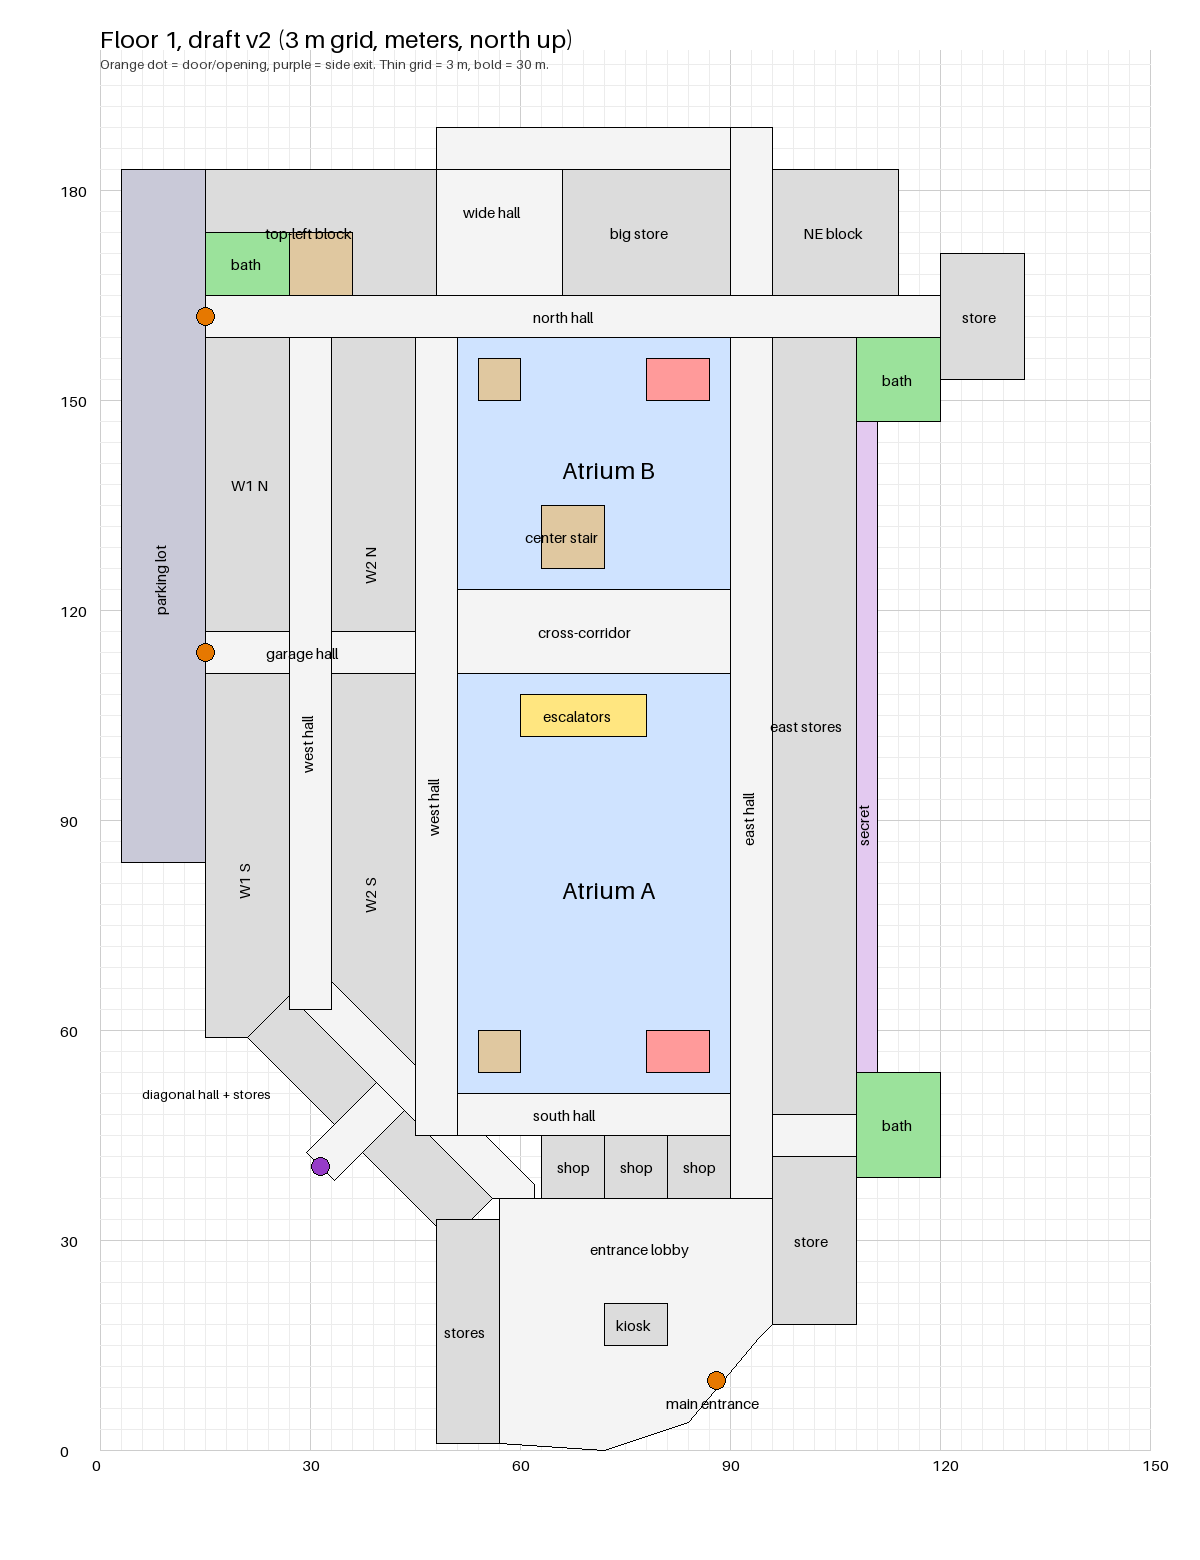
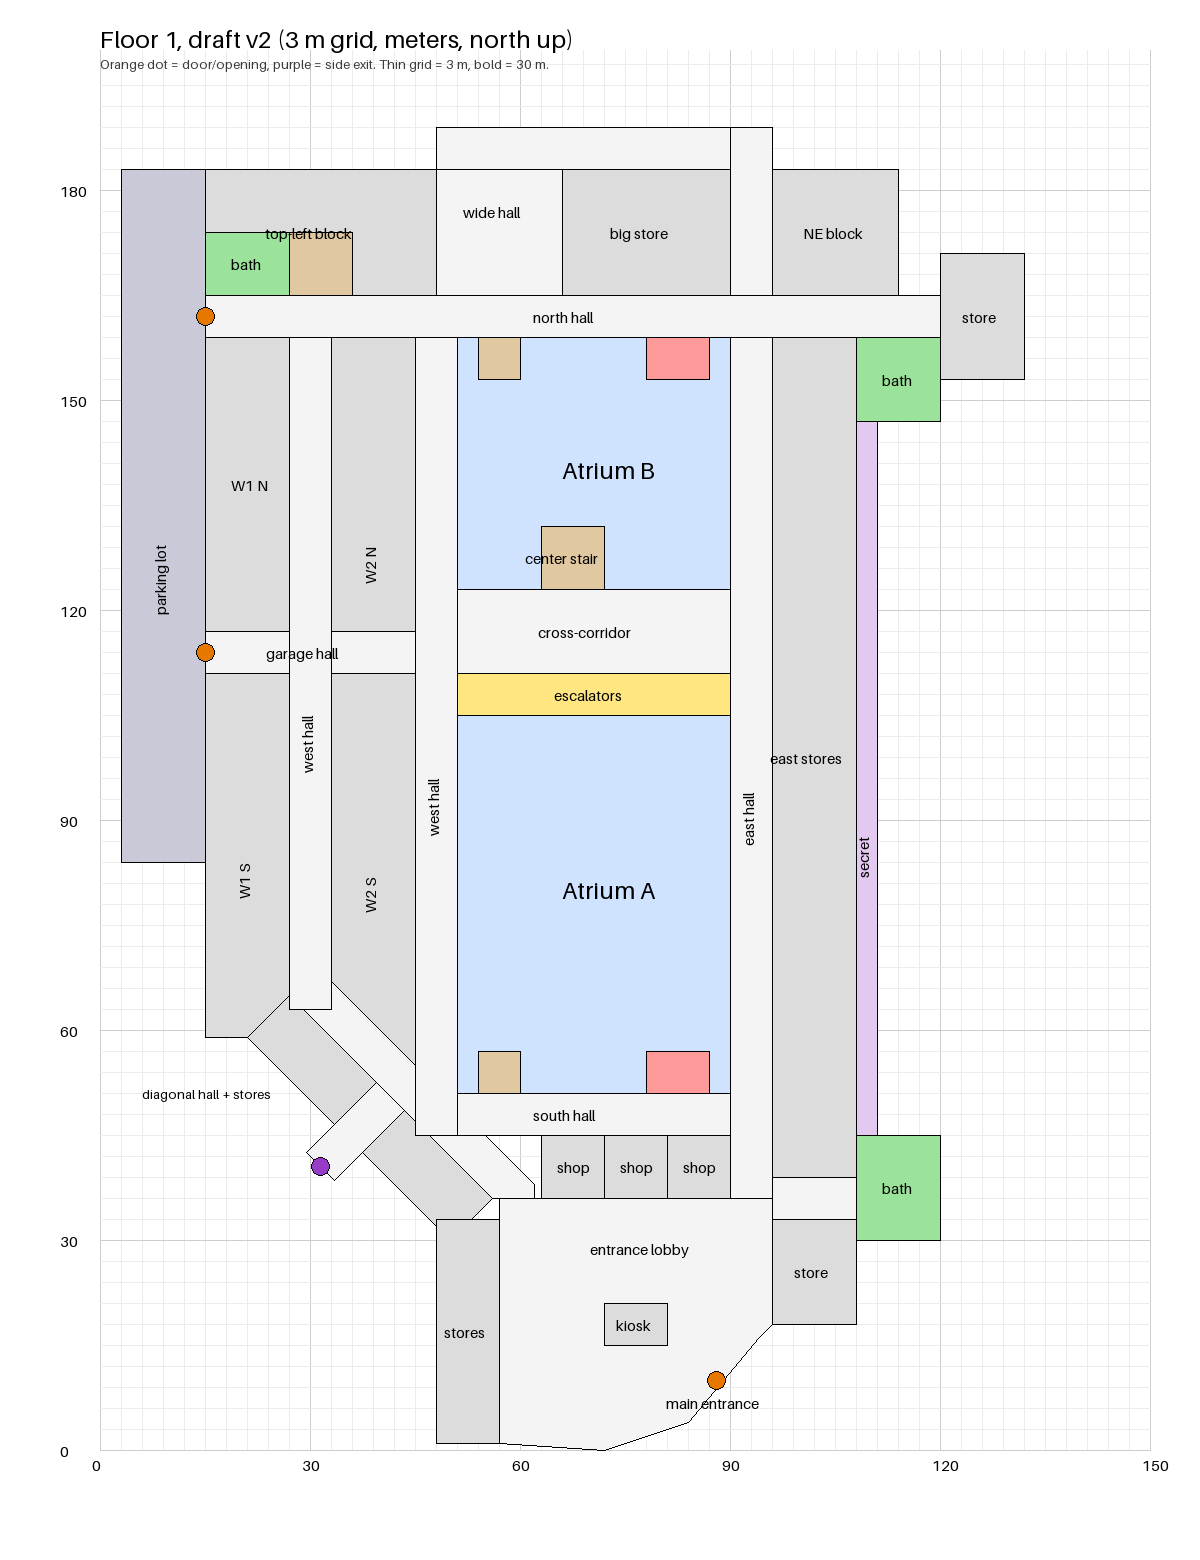
floor 1 plan updates

diff --git a/docs/floorplans/floor1_notes.md b/docs/floorplans/floor1_notes.md
@@ -103,6 +103,10 @@ Files: `floor1_plan_v2.png` and `floor1_plan_v2.json` (v1 is kept for comparison
 
 **Lobby stores (v2):** they are not separate boxes. On the east side the east store block continues south along the lobby (down to y 18). On the west side the diagonal store block turns and runs all the way south along the lobby's west wall. The walk-in kiosk is an island in the middle of the lobby.
 
+**SE short hall and bathrooms moved south (v2):** moved 9 m (kept on the 3 m grid) from the first spot. The short hall (y 33 to 39) branches east where the east hall meets the lobby, with a store block on each side (the south one continues along the lobby). The SE bathrooms are at its east end (x 108 to 120, y 30 to 45) and the secret hallway ends at their top.
+
+**Stairs and elevators (v2):** Atrium B's north stairs and elevator pair sit against its north wall, reached from the north hall. The center curved stair sits against the cross-corridor (y 123 to 132). The escalators run the full width of Atrium A (x 51 to 90) just below the cross-corridor, from the west hall to the east hall. Atrium A's stairs and elevator pair sit against its south wall, reached from the south hall.
+
 ## Open questions
 
 1. **Scale.** Measured from the real building outline; see "Scale check". Decision needed on how to use it.
